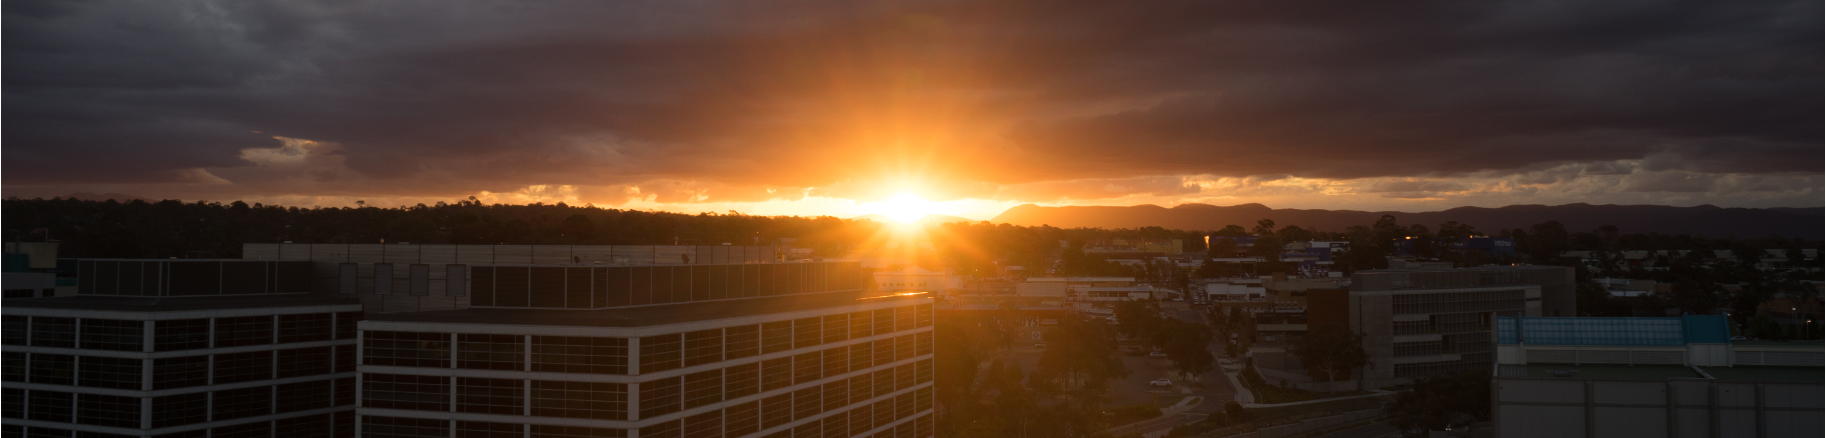
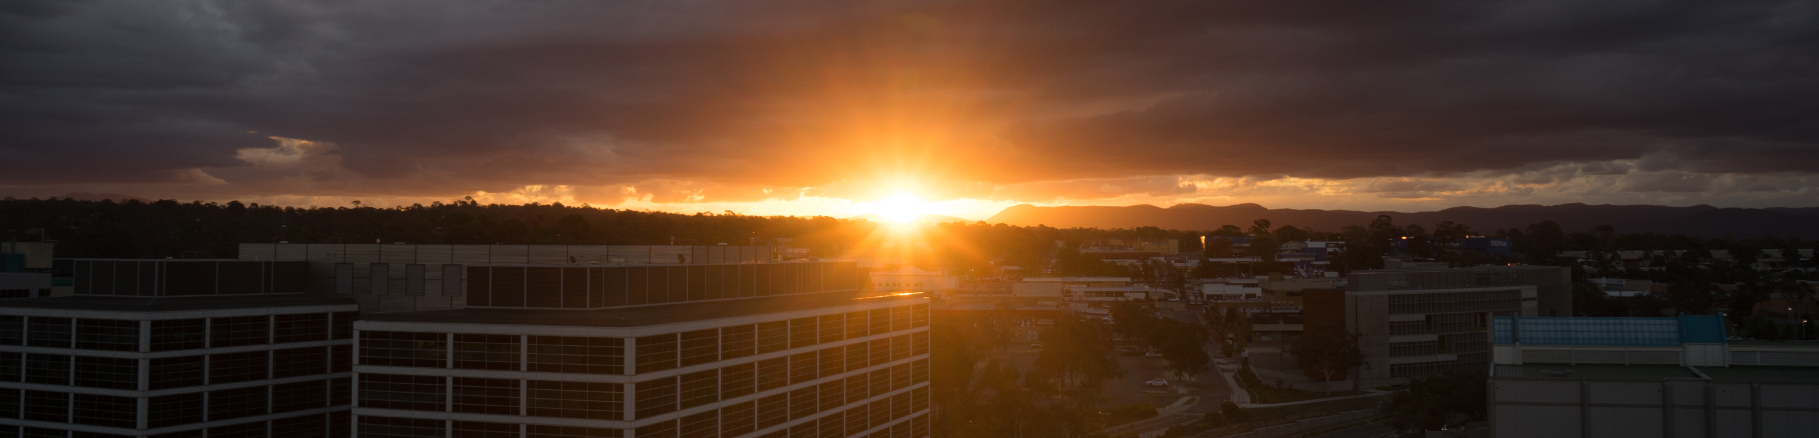
fix some bugs

diff --git a/my.css b/my.css
@@ -1,13 +1,17 @@
 /* overall setting */
 body {
-	font-family: "Montserrat", "Helvetica Neue", Arial, sans-serif;
- 	margin: 0;
-	height: 100%;
+	font-family: "Montserrat", "Helvetica Neue", Arial, sans-serif; 
+	margin:0; /* attribute like the margin:0 border:0 and display:flex are already set by bootstap*/
+	border:0; 
+	padding:0;
 }
 
 body.inner{
 	display: flex;
 	flex-direction: column;
+	margin:0; /* attribute like the margin:0 border:0 and display:flex are already set by bootstap*/
+	border:0; 
+	padding:0;
 }
 
 a:link, a:visited{
@@ -102,7 +106,7 @@ nav ul li:hover ul{  /* show second level drop-down list when hovering*/
 	display: flex;
 	flex-direction: column;
 	position: absolute;  /* must use aboslute to make the second level list overflow*/
-	top: 38px;
+	top: 36px;  /* have to adjust the distance to make them connected*/
 }
 
 nav ul ul li{
@@ -130,17 +134,13 @@ nav div#placeholder a:hover{
 
 /* header */
 header{
-	display: flex;
-	flex-direction: column;
 	flex:0 0 auto;  /* this is default parameter is 0 1 auto*/
-}
-#title-div { 
-	overflow: hidden;
-	margin:0px;
-	border:0px;
+	margin:0;
+	border:0;
 }
 
 #title-img {
+	display:block;
 	min-height: 200px;
 	max-height:300px;
 	width: 100%;
@@ -180,7 +180,7 @@ footer{
 	display: flex;
 	flex-direction: column;
 	flex: 0 0 auto;
-	height: 300px;
+	height: 320px;
 	background-color: #303030;
 	color: #DDDDDD;
 }
@@ -190,15 +190,14 @@ hr{
 }
 
 /* feedback form inside footer*/
-#form, #text{
-	width: 300px;
-	height: 400px;
+#form-btn {
+	margin-top: 10px;
 }
-
 #row{
 	display: flex;
 	flex-direction: row;
 	justify-content: space-between;
+	margin-top:10px;
 }
 #left-footer, #copyright{
 	margin-left:130px;

diff --git a/contents/passion.html b/contents/passion.html
@@ -39,11 +39,13 @@
 
 <!-- header -->
 <header>
+<div>
 	<img id="title-img" src="../static/img/title.jpg">
 	<h1 id="title">My Passion</h1>
+</div>
 </header>
 
-<!-- amin content -->
+<!-- main content -->
 <main id="inner-main">
 	<article>
 	<p> Bobolg is a personal website offering articles and medias produced by myself to like-minded, life-loving and studious computer nerds, scholars and idler who want to enjoy the articles, photographes and videos that I am sharing. </p>
@@ -51,7 +53,7 @@
 	<p>Unlike competing sites, which only have the specific media in the specific aspect, Bobolg will share articles, photographes and videos about computer science knowledge, research experence, beautiful natural scene, my hobbies and etc.</p>
 	<br>
 	<br>
-	<br>
+
 	</article>
 	
 </main>
@@ -64,7 +66,7 @@
 			<p>Feedback</p>
 			<textarea rows='5' cols='50' form="feedback-form" placeholder="What you want to talk to me?" ></textarea>
 			<form id="feedback-form" action="">
-				<input type="submit" class="btn btn-light" value="send to me"> </input>
+				<input type="submit" class="btn btn-light" id="form-btn" value="send to me"> </input>
 			</form>
 			</div>
 		</div>

diff --git a/index.html b/index.html
@@ -16,7 +16,7 @@
 <body>
 <main id="index-main">
 <div id="index-text">
-<h1 style="font-size:3.5em">Friends, welcome!</h1>
+<h1 style="font-size:3.3em">Welcome to my site!</h1>
 <p style="font-size:2em">My name is Jiabo Xu. </strong></p>
 <p class="index-main-p" align="justify"> I am currently studying master of computing in <a class="has-underline" href="http://www.anu.edu.au/" target="_blank"> ANU </a>. In terms of research field, I am studying deep based Computer Vision subjects using <a class="has-underline" href="https://pytorch.org/"target="_blank">PyTorch</a>. Besides, I am fluent user of <a class="has-underline" href="https://www.djangoproject.com/"target="_blank" >Django</a> and good at full-stack web development. You could find some of my projects on <a class="has-underline" href="https://github.com/JiaBob" target="_blank">GitHub</a>.</p>
 <p class="index-main-p" align="justify">Life of a man should not be bounded by career. Out of them, I'd like to share my interesting life with you. I like cooking, jogging, photography, philosophy, Go and playing video games.</p>

diff --git a/contents/test.html b/contents/test.html
@@ -1,0 +1,31 @@
+<head>
+	<title> my passion</title>
+	<meta charset='utf-8'/>
+	<meta name="keyword" content="my scene">
+	<link rel="icon" href="../static/img/icon_32.png" type="/image/x-icon" /> 
+	
+	<style>
+	body {
+		margin:0;
+		border:0;
+		padding:0;
+	}
+	div{
+		max-height:300px;
+		margin:0;
+		border:0;
+		padding:0;
+	}
+	#title-img {
+		width: 100%;
+		height: auto;
+		margin:0;
+		border:0;
+		padding:0;
+	}
+	</style>
+</head>
+<div>
+	<img id="title-img" src="../static/img/title.jpg">
+	<h1 id="title">My Passion</h1>
+</div>
